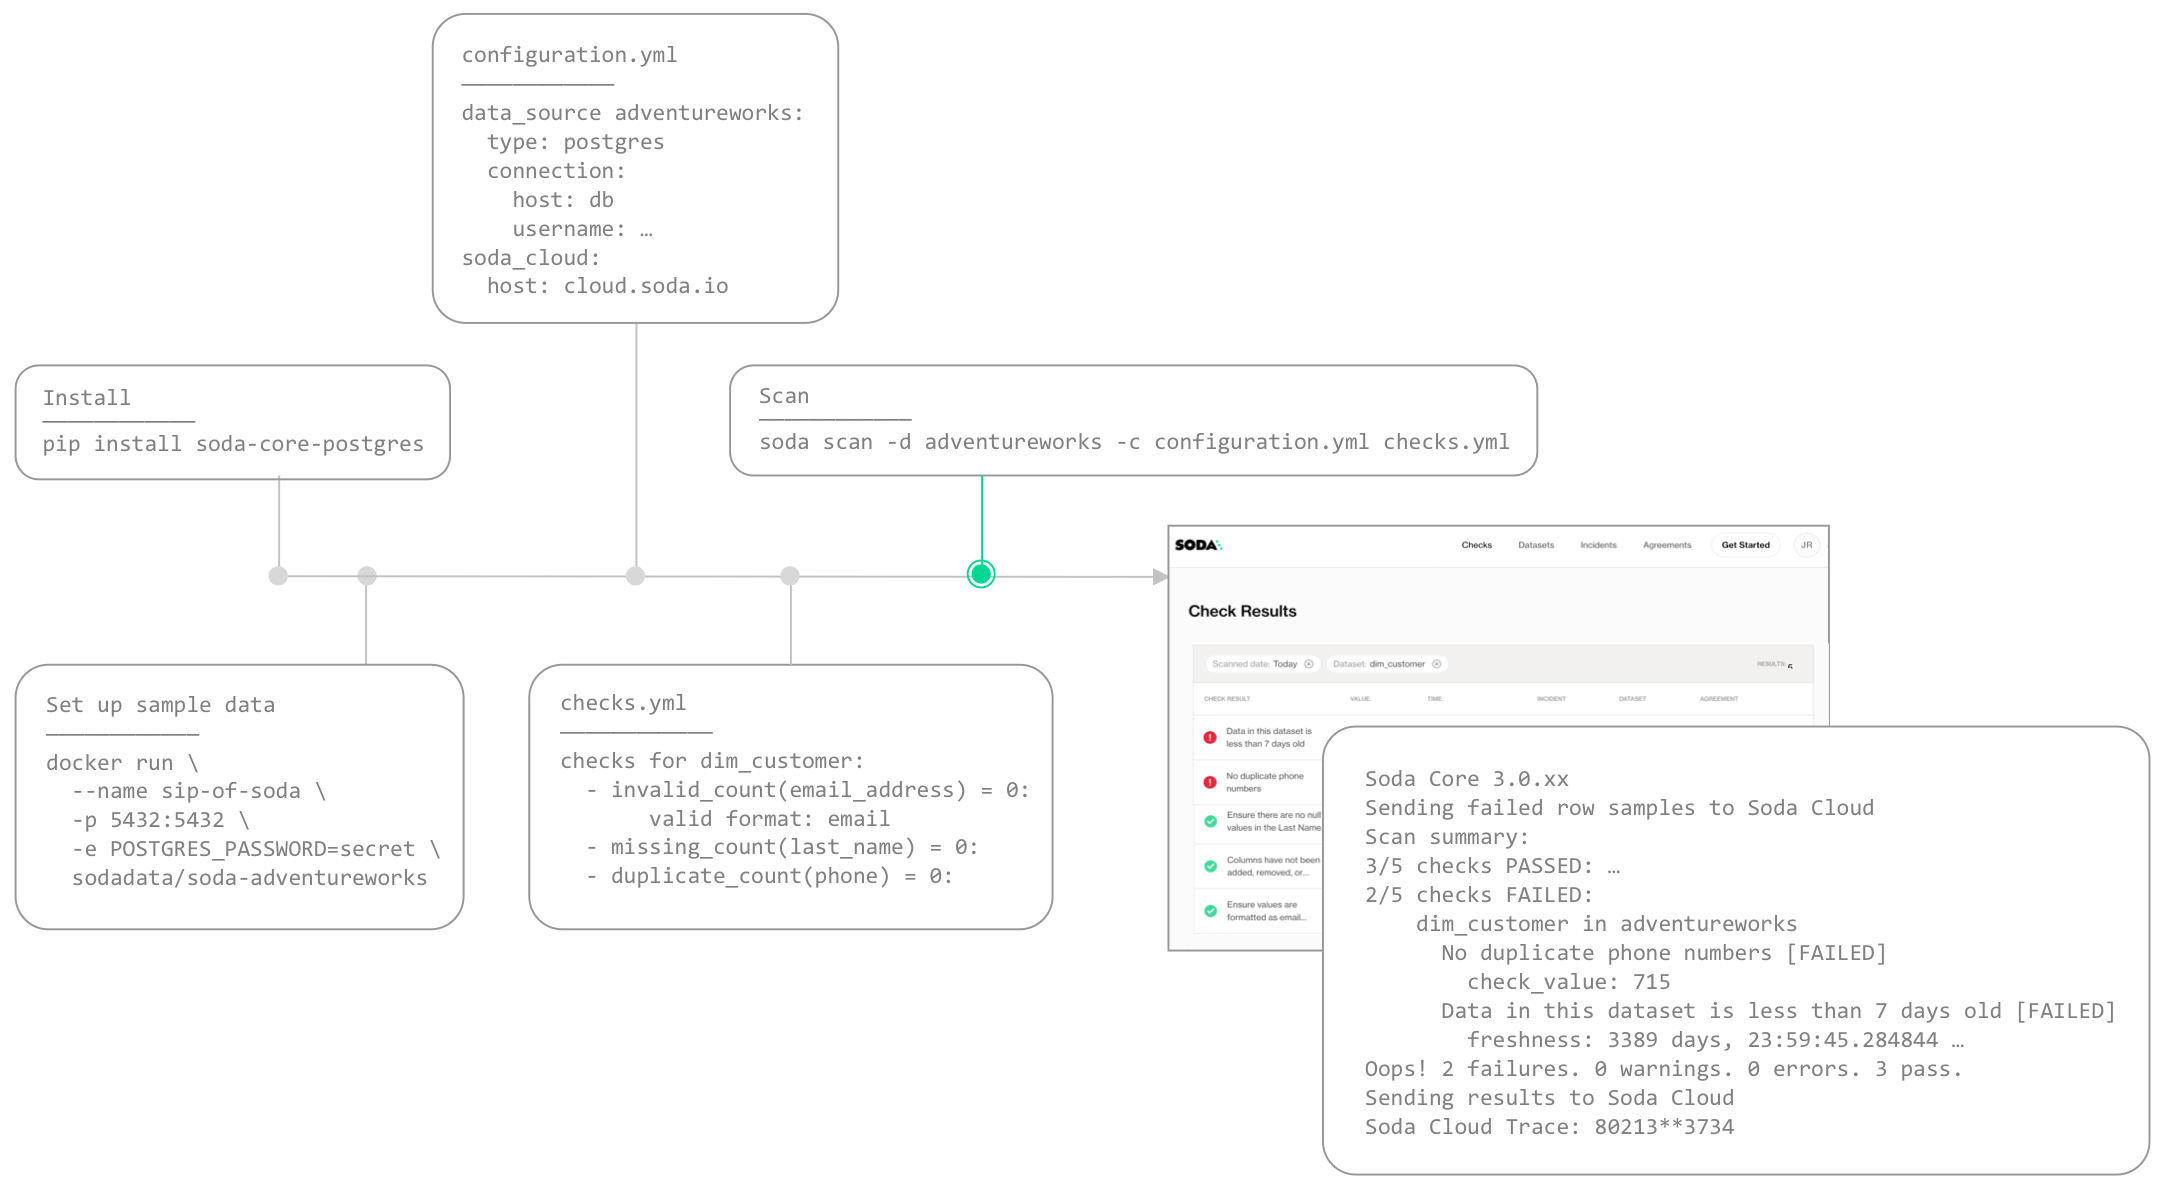
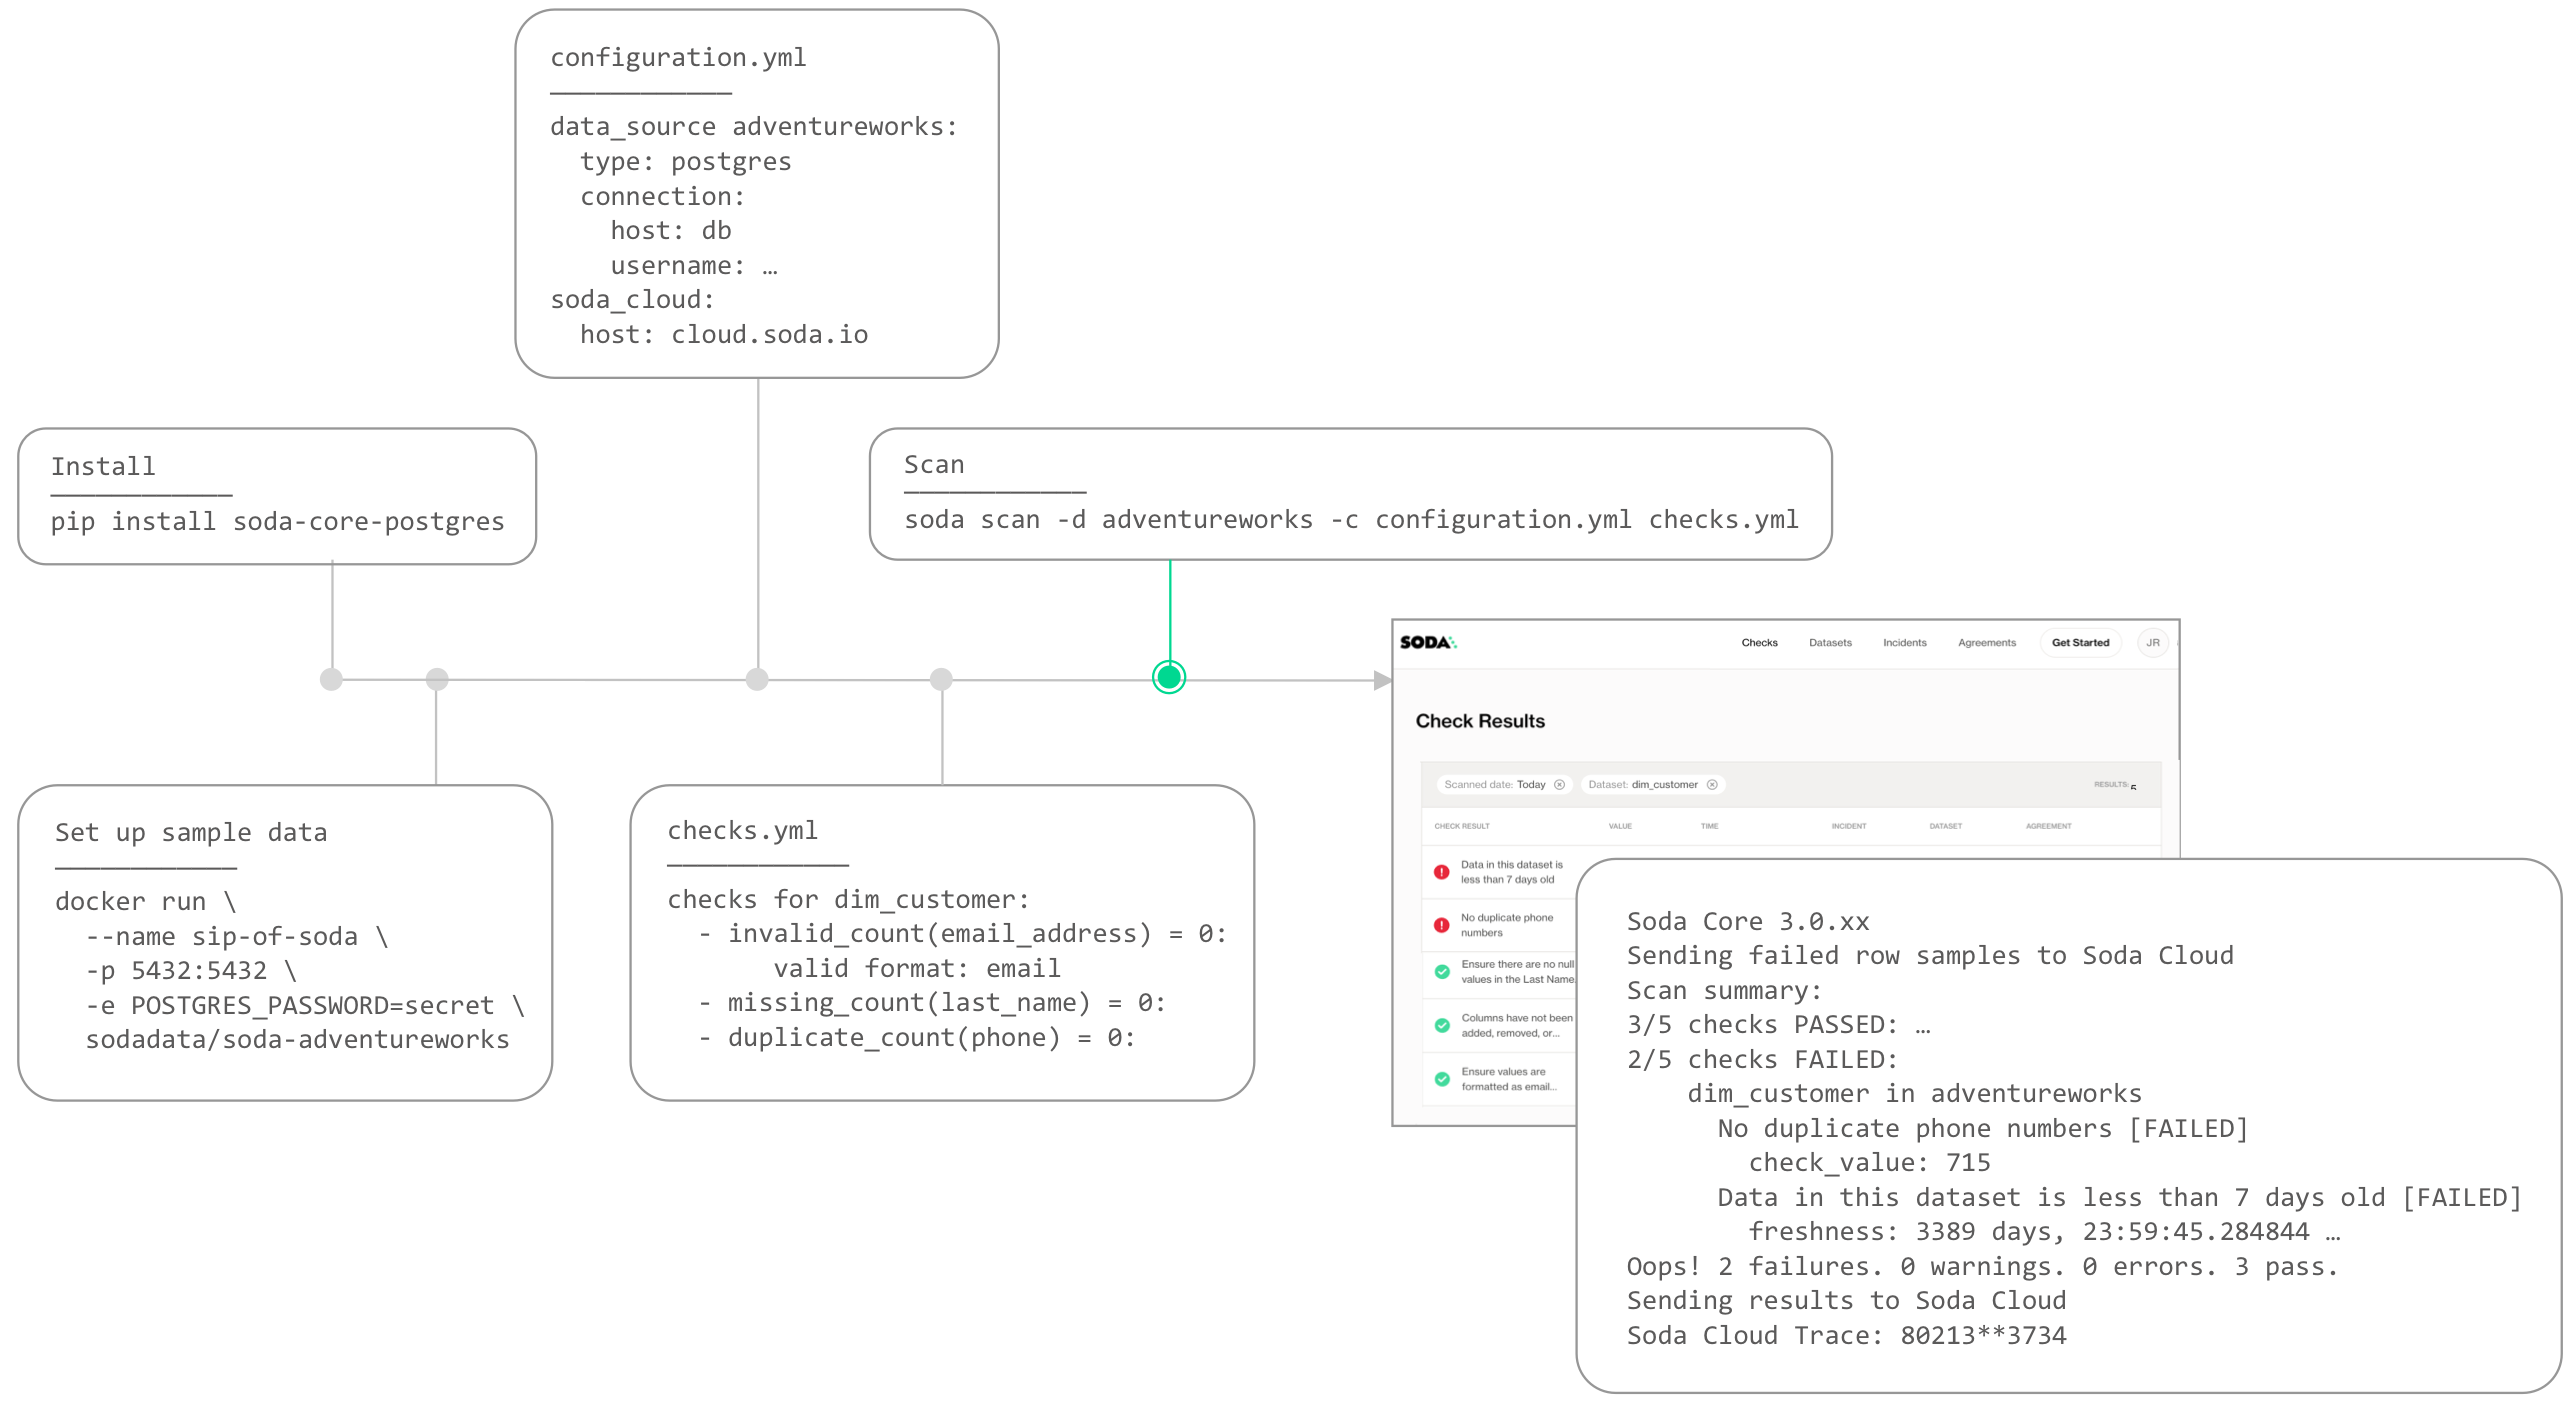
Update diagrams, refine quick start details.

diff --git a/soda/quick-start-prod.md b/soda/quick-start-prod.md
@@ -34,11 +34,11 @@ Use this guide as an example for how to set up and use Soda to test the quality 
 
 The instructions below offer Data Engineers an example of how to execute SodaCL checks for data quality on data in an <a href="https://airflow.apache.org/" target="_blank">Apache Airflow</a> pipeline. 
 
-For context, this guide presents an example of a Data Engineer at a small firm who was tasked with building a simple products report of sales by category for <a href="/assets/adventureworks_schema.png" target="_blank">AdventureWorks data</a>. This Engineer uses <a href="https://www.getdbt.com/" target="_blank">dbt</a> to build a simple model transformation to gather data, then models to push gathered information to a reporting and visualization tool. The Engineer uses Airflow for scheduling and monitoring workflows, including data ingestion and transformation events. 
+For context, this guide presents an example of a Data Engineer at a small firm who was tasked with building a simple products report of sales by category for <a href="/assets/adventureworks_schema.png" target="_blank">AdventureWorks data</a>. This Engineer uses <a href="https://www.getdbt.com/" target="_blank">dbt</a> to build a simple model transformation to gather data, then builds more models to transform and push gathered information to a reporting and visualization tool. The Engineer uses Airflow for scheduling and monitoring workflows, including data ingestion and transformation events. 
 
-The Engineer's goal in this example is to make sure that after such events, and before pushing information into a reporting tool, they run scans to check the quality of the data.  Where the scan results indicate an issue with data quality, Soda notifies the Engineer via a notification in Slack so that they can potentially stop the pipeline and investigate and address any issues before the issue causes problems in the report.
+The Engineer's goal in this example is to make sure that after such events, and before pushing information into a reporting tool, they run scans to check the quality of the data.  Where the scan results indicate an issue with data quality, Soda notifies the Engineer so that they can potentially stop the pipeline and investigate and address any issues before the issue causes problems in the report.
 
-Access the <a href="https://github.com/sodadata/sip-of-soda/tree/main/test-in-pipeline/soda" target="_blank">sodadata/sip-of-soda/test-data-in-pipeline</a> folder to review the dbt models and Soda checks that the Data Engineer uses.
+Access the <a href="https://github.com/sodadata/sip-of-soda/tree/main/test-in-pipeline/soda" target="_blank">sodadata/sip-of-soda/test-data-in-pipeline</a> folder to review the dbt models and Soda checks files that the Data Engineer uses.
 
 Borrow from this guide to connect to your own data source, set up scan points in your pipeline, and execute your own relevant tests for data quality.
 
@@ -96,7 +96,7 @@ soda test-connection -d adventureworks -c configuration.yml
 
 A check is a test that Soda executes when it scans a dataset in your data source. The `checks.yml` file stores the checks you write using the [Soda Checks Language (SodaCL)]({% link soda-cl/soda-cl-overview.md %}). You can create multiple `checks.yml` files to organize your data quality checks and run all, or some of them, at scan time. 
 
-In this example, the Data Engineer creates multiple checks after ingestion, after transformation, and before pushing the information to a visualization and reporting tool.
+In this example, the Data Engineer creates multiple checks after ingestion, after initial transformation, and before pushing the information to a visualization or reporting tool.
 
 ![data-pipeline](/assets/images/data-pipeline.png){:width="700px"}
 
@@ -128,7 +128,9 @@ checks for fact_product_category:
 
 ### Ingest checks
 
-Because the Engineer does not have the ability or access to fix upstream data, they create another checks YAML file write checks to apply to each dataset they use in the transformation, *after* the data is ingested, but before it is transformed.
+Because the Engineer does not have the ability or access to fix upstream data themselves, they create another checks YAML file write checks to apply to each dataset they use in the transformation, *after* the data is ingested, but before it is transformed.
+
+For any checks that fail, the Engineer can notify upstream Data Engineers or Data Product Owners to address the issue of missing categories and subcategories.
 
 ![ingest](/assets/images/ingest.png){:width="200px"}
 
@@ -310,8 +312,8 @@ checks for report_subcategory_sales:
 
 ## Create a DAG and run the workflow 
 
-Create an Airflow DAG and run the workflow locally. <br />
-<a href="https://github.com/sodadata/sip-of-soda/blob/main/test-in-pipeline/dbt%20models/transform/fact_product_category.sql" target="_blank">Access the DAG</a> in the repo.
+The Engineer creates an Airflow DAG and <a href="https://airflow.apache.org/docs/apache-airflow/2.2.3/start/local.html" target="_blank">runs the workflow locally</a>. <br />
+<a href="https://github.com/sodadata/sip-of-soda/blob/main/test-in-pipeline/airflow/model_sales_category.py" target="_blank">Access the DAG</a> in the repo.
 
 ```python
 from airflow import DAG
@@ -456,7 +458,7 @@ Learn more about [running Soda scans]({% link soda-core/scan-core.md %}).
 3. In the **Tags** field, they add a value for `fact_product_category`, the dbt model that uses this dataset, and a tag to indicate the kind of data that Soda is scanning, `raw`, `transformed` or `reporting`, then saves. They repeat these steps to add tags to all the datasets in their Soda platform account.
 4. Navigating again to the **Datasets** page, they use the filters to display datasets according to **Tags** and **Arrival Time** to narrow the search for the most recent quality checks associated with their models which have failed or warned.
 ![datasets-tags](/assets/images/datasets-tags.png){:width="700px"}
-5. After filtering the datasets according to the tags, the Engineer also adds a bookmark in their browser to create an improvised dashboard to revisit often.
+5. After filtering the datasets according to the tags, the Engineer also adds a bookmark in their browser to create an improvised dashboard to revisit daily.
 6. If you were in the Data Engineer's shoes, you may further wish to set up [Slack notifications]({% link soda/quick-start-dev.md %}#set-up-slack-integration-and-notification-rules) for any checks that warn or fail during scans.
 
 ✨Hey, hey!✨ Now you know what it's like to add data quality checks to your production data pipeline. Huzzah!

diff --git a/soda/quick-start-sip.md b/soda/quick-start-sip.md
@@ -52,32 +52,17 @@ cd soda_sip
 ```shell
 python3 -m venv .venv
 ```
-2. Activate the virtual environment, then update the version of pip.
+2. Activate the virtual environment.
 ```shell
 source .venv/bin/activate
-```
-```shell
-pip install --upgrade pip
 ```
 3. Execute the following command to install the Soda package for PostgreSQL in your virtual environment. The example data is in a PostgreSQL data source, but there are 15+ data sources with which you can connect your own data beyond this tutorial.
 ```shell
 pip install soda-core-postgres
 ```
-4. Validate the installation using the `soda` command. The command-line output is similar to the following.
+4. Validate the installation.
     ```shell
-    Usage: soda [OPTIONS] COMMAND [ARGS]...
-
-      Soda Core CLI version 3.0.XX
-
-    Options:
-      --version  Show the version and exit.
-      --help     Show this message and exit.
-
-    Commands:
-      ingest           Ingests test results from a different tool
-      scan             Runs a scan
-      test-connection  Tests a connection
-      update-dro       Updates contents of a distribution reference file
+soda --help
     ```
 
 To exit the virtual environment when you are done with this tutorial, use the command `deactivate`.
@@ -86,16 +71,20 @@ To exit the virtual environment when you are done with this tutorial, use the co
 ## Build an example data source
 
 To enable you to take a first sip of Soda, you can use Docker to quickly build an example PostgreSQL data source against which you can run scans for data quality. The example data source contains data for AdventureWorks, an imaginary online e-commerce organization. 
+* Access the <a href="https://github.com/sodadata/sip-of-soda" target="_blank">`sodadata/sip-of-soda`</a> repository in GitHub.
+* Access a quick view of the <a href="/assets/adventureworks_schema.png" target="_blank">AdventureWorks schema</a>.
 
-Access a quick view of the <a href="/assets/adventureworks_schema.png" target="_blank">AdventureWorks schema</a>.
-
-1. Use GitHub to clone the <a href="https://github.com/sodadata/sip-of-soda" target="_blank">`sodadata/sip-of-soda`</a> repo locally. Use Terminal to navigate to the newly-cloned repo in your local environment.
-2. If it is not already running in your local environment, start Docker.
-3. In Terminal, run the following command to set up the prepared example data source.
+With Docker running, run the following command in Termainal to set up the prepared example data source.
+{% include code-header.html %}
 ```shell
-docker-compose up
+docker run \
+ --name sip-of-soda \
+ -p 5432:5432 \
+ -e POSTGRES_PASSWORD=secret \
+ sodadata/soda-adventureworks
 ```
-4. When the output reads `data system is ready to accept connections`, your data source is set up and you are ready to proceed.
+
+When the output reads `data system is ready to accept connections`, your data source is set up and you are ready to proceed.
 
 <details>
   <summary style="color:#00BC7E">Troubleshoot</summary>
@@ -107,7 +96,7 @@ docker-compose up
   <ol>
   <li>Execute the command <code>lsof -i tcp:5432</code> to print a list of PIDs using the port. </li>
   <li>Use the PID value to run the following command to free up the port: <code>kill -9 your_PID_value</code>. You many need to prepend the commands with <code>sudo </code>. </li>
-  <li>Run <code>docker-compose up</code> again.</li>
+  <li>Run the <code>docker run</code> command again.</li>
   </ol>
 </details>
 
